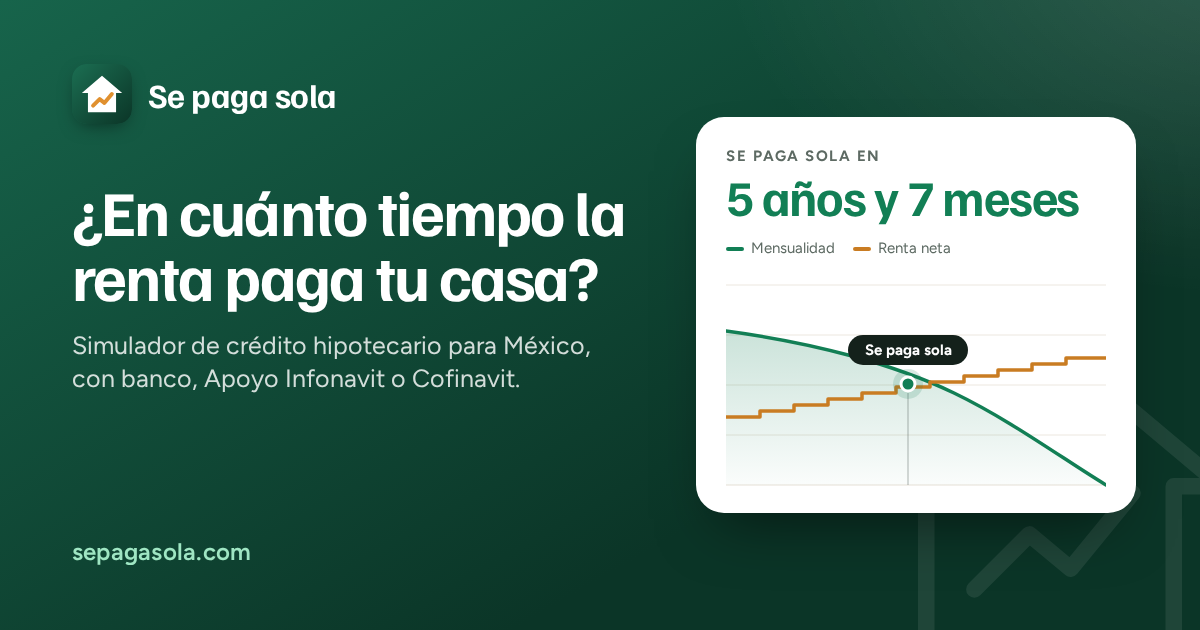
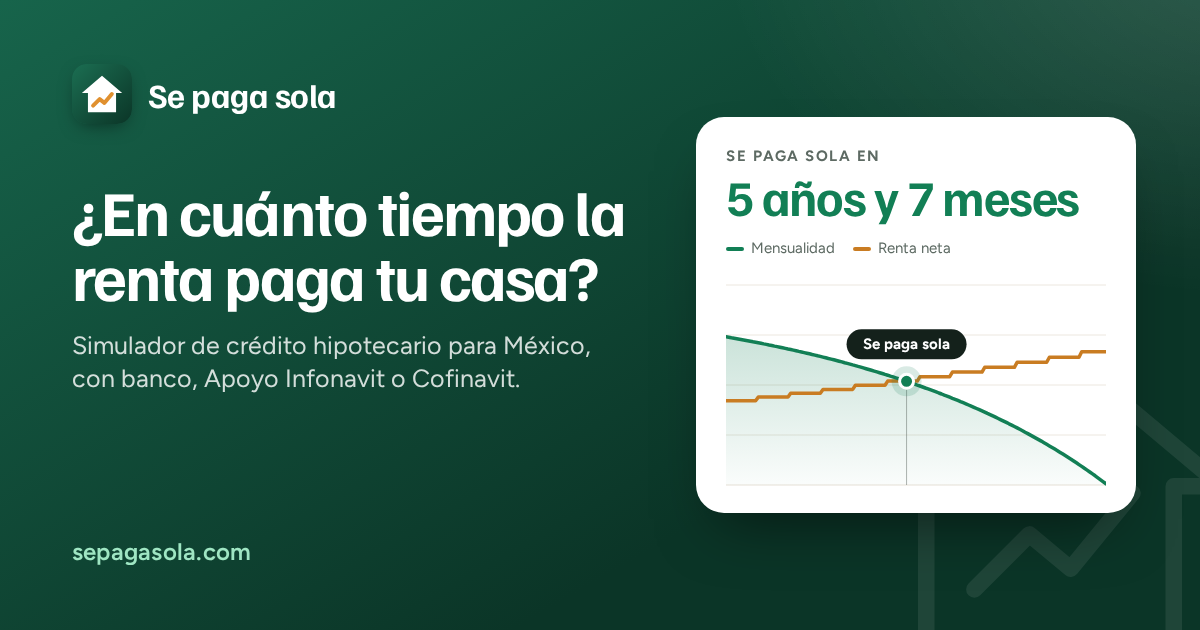
Imagen para compartir: la gráfica usa el cálculo real del ejemplo
El punto de "Se paga sola" quedaba sobre un escalón de la renta y no en el
cruce de las líneas. Ahora og-image.html lee el bloque de lógica de
index.html y dibuja la mensualidad, la renta y el cruce con los valores del
ejemplo; también el texto "5 años y 7 meses" sale del cálculo.

diff --git a/_graficos/og-image.html b/_graficos/og-image.html
@@ -37,21 +37,41 @@ svg.chart{display:block;margin-top:8px}
 </div>
 <div class="card">
   <div class="k">Se paga sola en</div>
-  <div class="big">5 años y 7 meses</div>
+  <div class="big" id="big">—</div>
   <div class="legend"><span><i style="background:#127f55"></i>Mensualidad</span><span><i style="background:#c97c22"></i>Renta neta</span></div>
   <svg class="chart" width="380" height="230" viewBox="0 0 380 230">
     <defs><linearGradient id="a" x1="0" y1="0" x2="0" y2="1"><stop offset="0" stop-color="#127f55" stop-opacity=".22"/><stop offset="1" stop-color="#127f55" stop-opacity=".02"/></linearGradient></defs>
     <g stroke="#ece7df" stroke-width="1"><line x1="0" x2="380" y1="20" y2="20"/><line x1="0" x2="380" y1="70" y2="70"/><line x1="0" x2="380" y1="120" y2="120"/><line x1="0" x2="380" y1="170" y2="170"/></g>
     <line x1="0" x2="380" y1="220" y2="220" stroke="#e6e0d6"/>
-    <path d="M0 66 C 90 78, 170 100, 228 128 S 340 196, 380 220 L380 220 L0 220Z" fill="url(#a)"/>
-    <path d="M0 66 C 90 78, 170 100, 228 128 S 340 196, 380 220" fill="none" stroke="#127f55" stroke-width="3.5" stroke-linecap="round"/>
-    <path d="M0 152 H34 V146 H68 V140 H102 V134 H136 V128 H170 V122 H204 V117 H238 V111 H272 V105 H306 V99 H340 V93 H380" fill="none" stroke="#c97c22" stroke-width="3.5" stroke-linejoin="round"/>
-    <line x1="182" x2="182" y1="128" y2="220" stroke="#5d6a63" stroke-opacity=".5"/>
-    <circle cx="182" cy="119" r="15" fill="#127f55" fill-opacity=".16"/>
-    <circle cx="182" cy="119" r="7" fill="#127f55" stroke="#fff" stroke-width="3"/>
-    <rect x="122" y="70" width="120" height="30" rx="15" fill="#14211b"/>
-    <text x="182" y="90" text-anchor="middle" font-family="Figtree" font-weight="700" font-size="15" fill="#fff">Se paga sola</text>
+    <path id="area" fill="url(#a)"/>
+    <path id="renta" fill="none" stroke="#c97c22" stroke-width="3.5" stroke-linejoin="round" stroke-linecap="round"/>
+    <path id="pago" fill="none" stroke="#127f55" stroke-width="3.5" stroke-linejoin="round" stroke-linecap="round"/>
+    <line id="guia" stroke="#5d6a63" stroke-opacity=".5"/>
+    <circle id="halo" r="15" fill="#127f55" fill-opacity=".16"/>
+    <circle id="punto" r="7" fill="#127f55" stroke="#fff" stroke-width="3"/>
+    <rect id="pill" width="120" height="30" rx="15" fill="#14211b"/>
+    <text id="pill-t" text-anchor="middle" font-family="Figtree" font-weight="700" font-size="15" fill="#fff">Se paga sola</text>
   </svg>
 </div>
+<script>
+/* La gráfica usa el cálculo real del sitio con los valores del ejemplo: lee el bloque <script id="logica"> de index.html,
+   así el cruce cae justo donde la renta alcanza a la mensualidad y el texto coincide con lo que muestra la página. */
+fetch('../index.html').then(r => r.text()).then(html => {
+  const L = new Function(html.match(/<script id="logica">([\s\S]*?)<\/script>/)[1] + ';return SimLogica;')();
+  const s = L.simulate(L.DEFAULTS), ms = s.months, n = ms.length, be = s.be;
+  const W = 380, base = 220, top = 20, maxY = 20000;   // mismas líneas guía: $20 mil arriba, cada $5 mil
+  const x = m => m / (n - 1) * W, y = v => base - Math.max(0, v) / maxY * (base - top);
+  const path = k => ms.map((r, i) => (i ? 'L' : 'M') + x(i).toFixed(1) + ' ' + y(r[k]).toFixed(1)).join(' ');
+  const set = (id, at) => Object.entries(at).forEach(([k, v]) => document.getElementById(id).setAttribute(k, v));
+  set('pago', { d: path('pay') }); set('renta', { d: path('target') });
+  set('area', { d: path('pay') + ` L${W} ${base} L0 ${base} Z` });
+  const bx = x(be), by = y(ms[be].pay);
+  set('guia', { x1: bx, x2: bx, y1: by + 8, y2: base }); set('halo', { cx: bx, cy: by }); set('punto', { cx: bx, cy: by });
+  set('pill', { x: bx - 60, y: by - 52 }); set('pill-t', { x: bx, y: by - 32 });
+  const a = Math.floor(be / 12), m = be % 12;
+  document.getElementById('big').textContent = [a ? a + (a === 1 ? ' año' : ' años') : '', m ? m + (m === 1 ? ' mes' : ' meses') : ''].filter(Boolean).join(' y ');
+  document.body.dataset.listo = '1';
+});
+</script>
 </body>
 </html>

diff --git a/_graficos/generar.js b/_graficos/generar.js
@@ -28,7 +28,7 @@ const servidor = http.createServer((req, res) => {
   const browser = await chromium.launch();
 
   const og = await browser.newPage({ viewport: { width: 1200, height: 630 } });
-  await og.goto(BASE + '_graficos/og-image.html'); await og.evaluate(() => document.fonts.ready); await og.waitForTimeout(200);
+  await og.goto(BASE + '_graficos/og-image.html'); await og.waitForSelector('body[data-listo]'); await og.evaluate(() => document.fonts.ready); await og.waitForTimeout(200);
   await og.screenshot({ path: path.join(RAIZ, 'og-image.png') });
   console.log('og-image.png');
 
